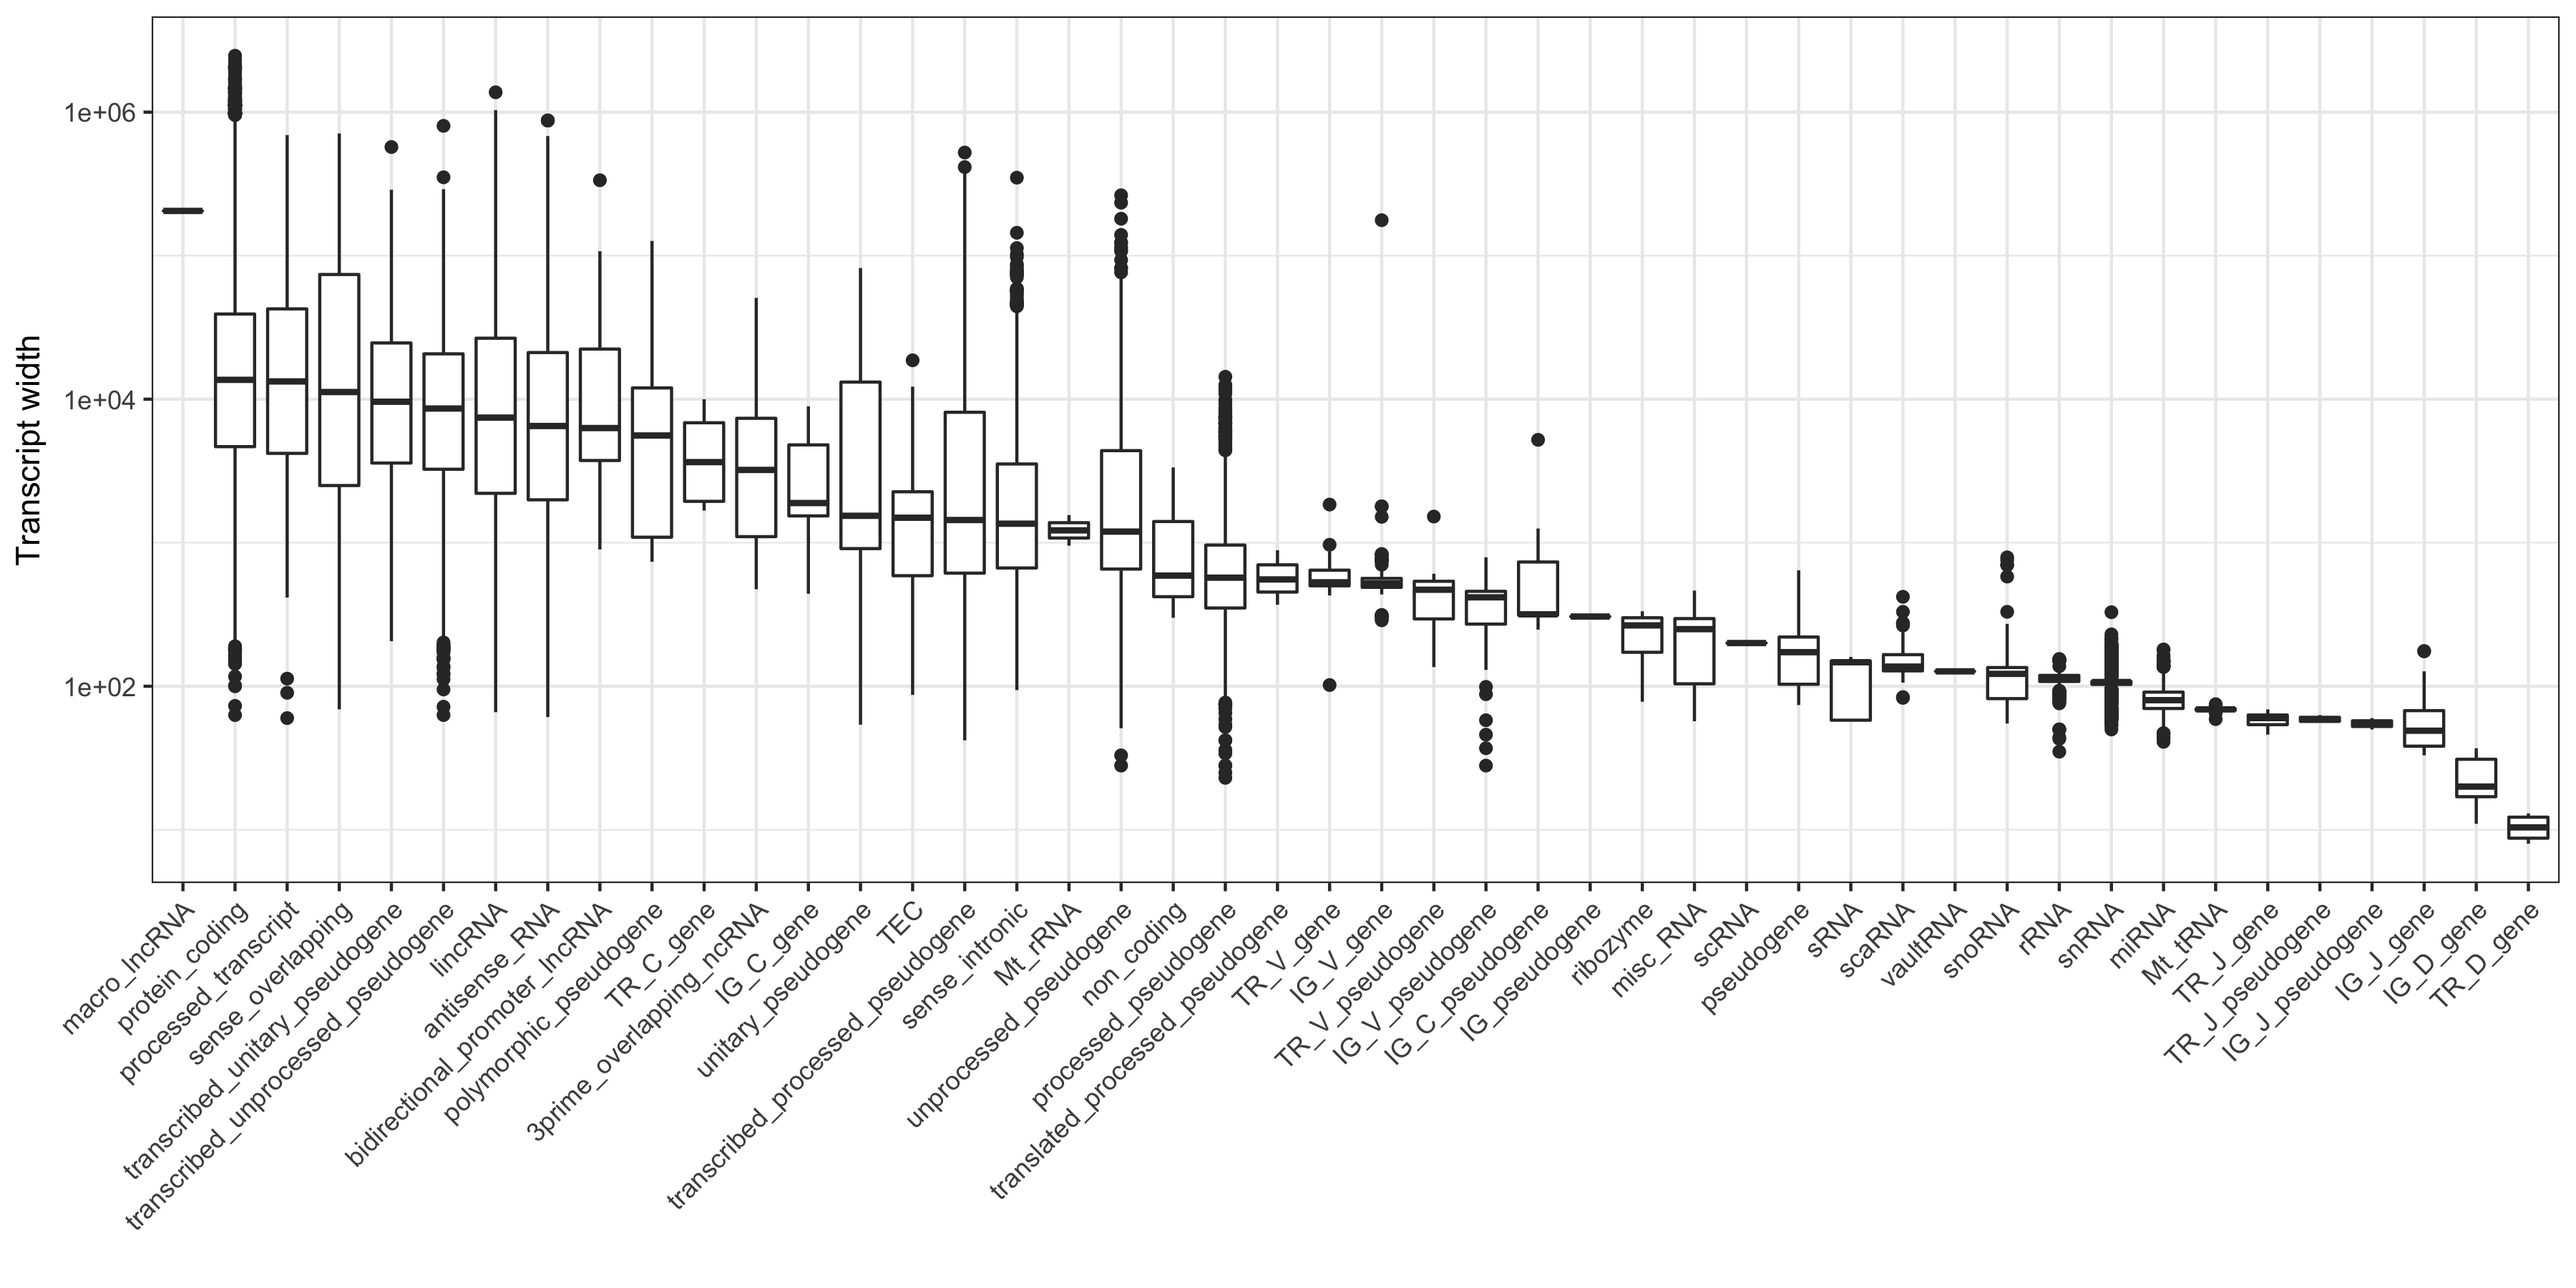
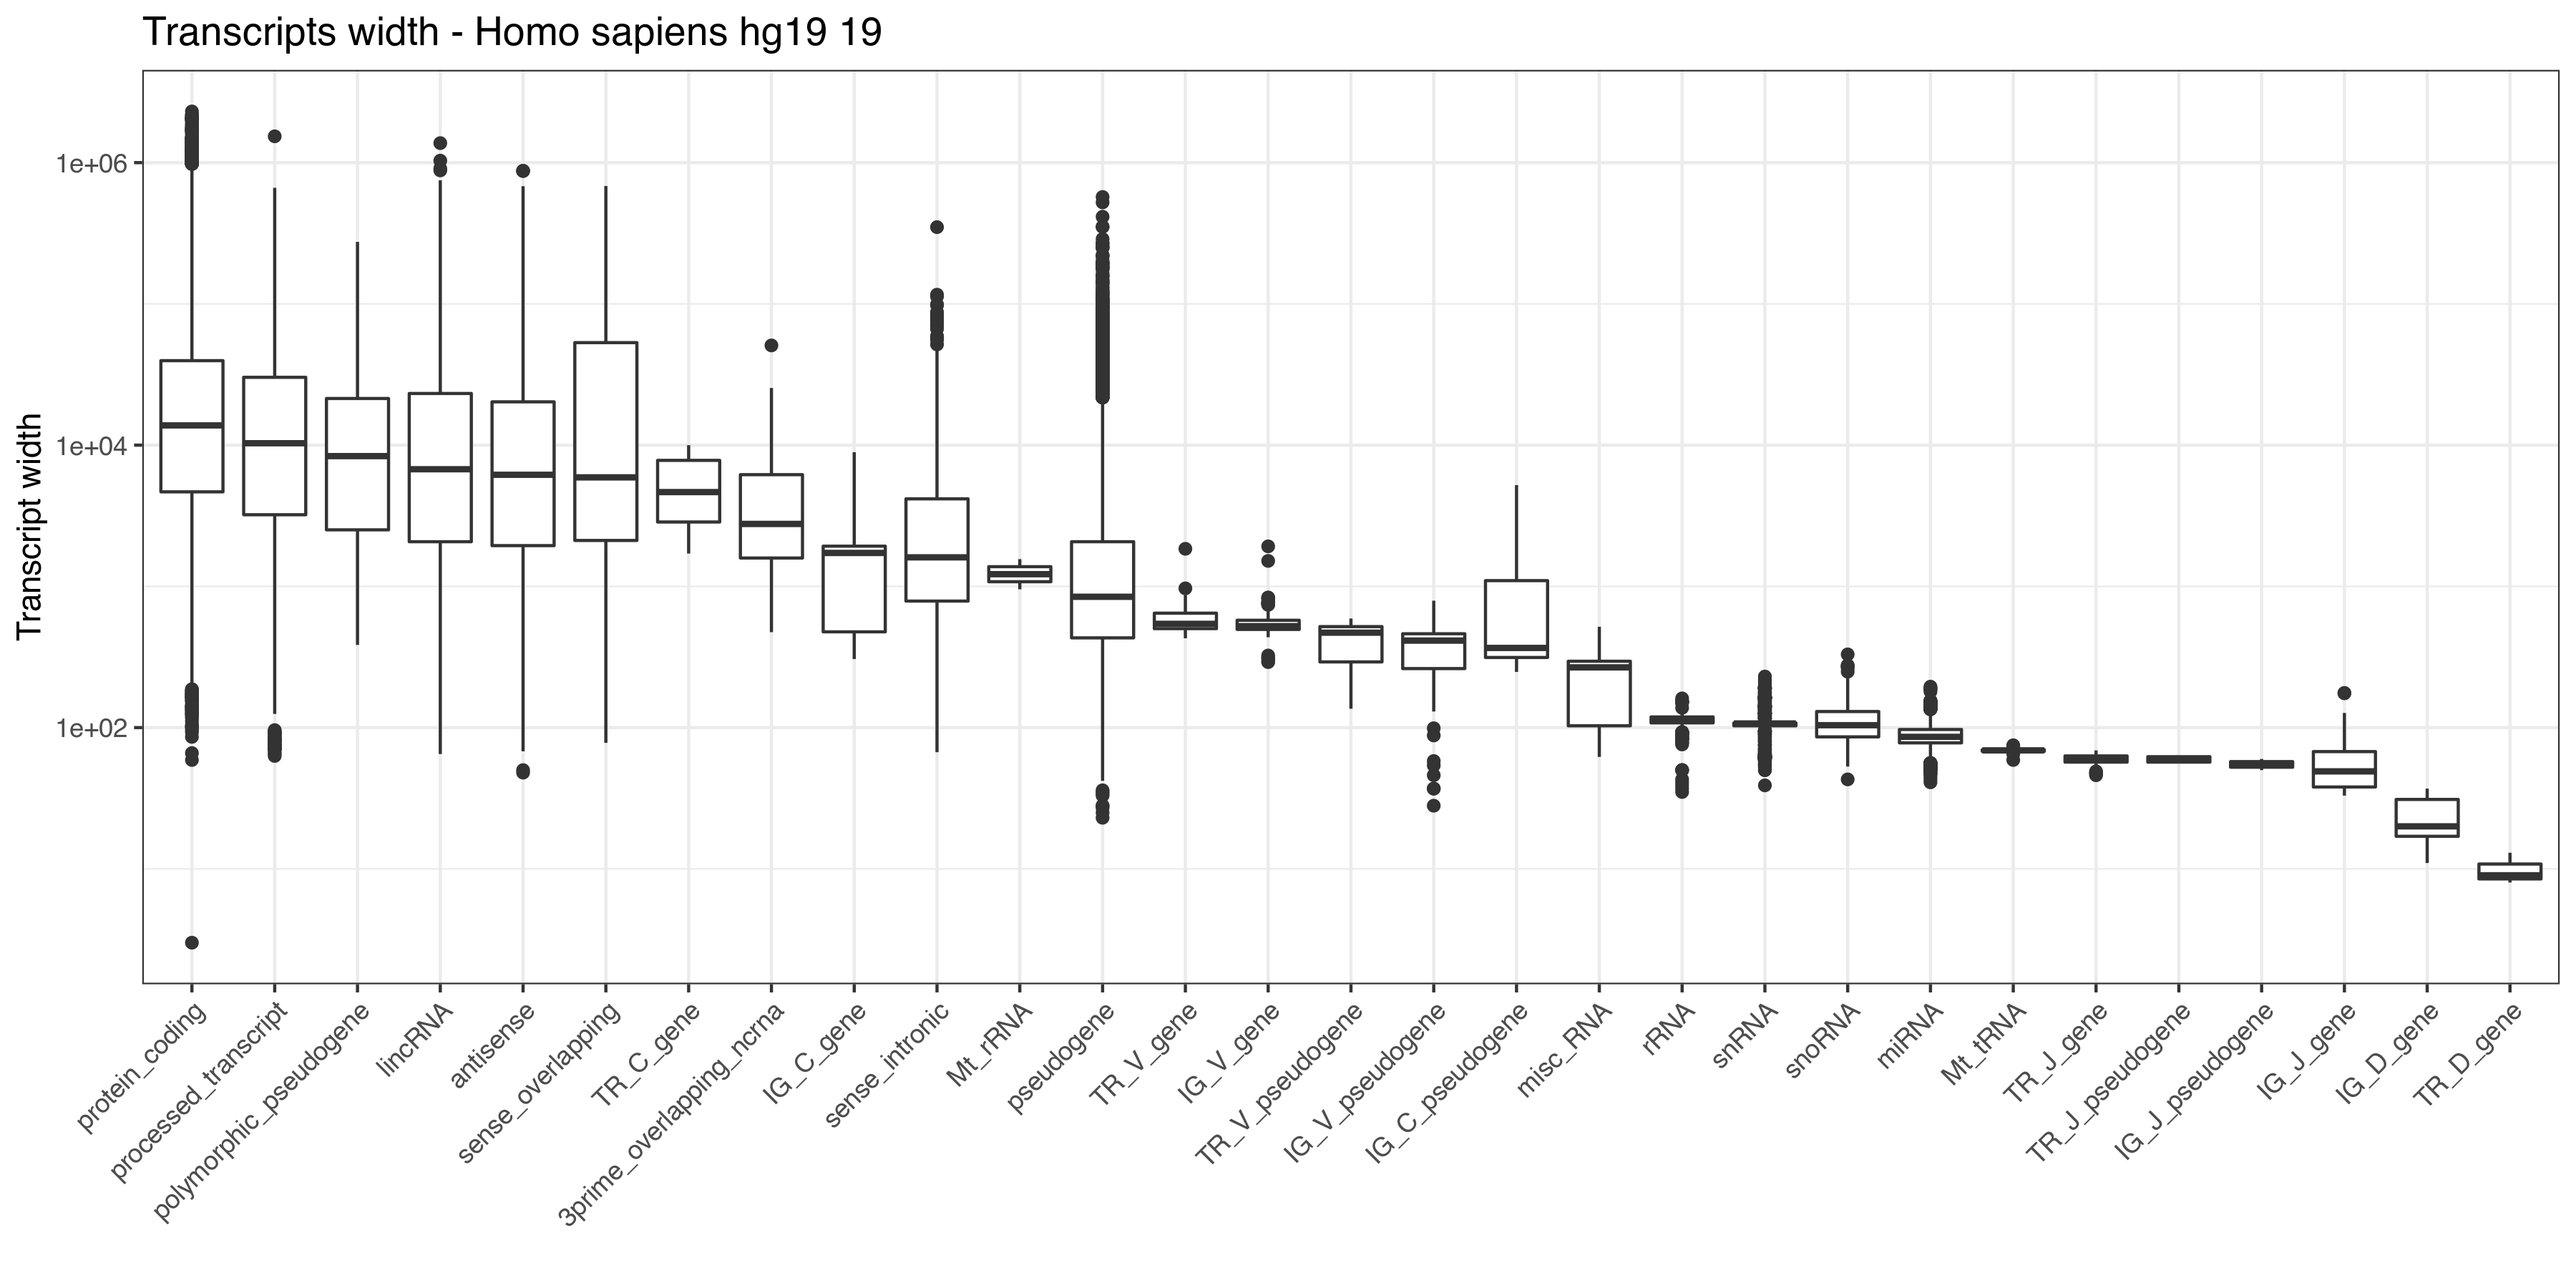
Fixes and changes

diff --git a/README.md b/README.md
@@ -1,6 +1,3 @@
-Gencode Annotation Processing
-================
-Federico Agostini
 
 ## To-Do
 
@@ -9,19 +6,19 @@ Federico Agostini
 
 ## Setup
 
-    ## R version 3.4.3 (2017-11-30)
+    ## R version 3.6.1 (2019-07-05)
 
-    ## Platform x86_64-apple-darwin15.6.0 (64-bit)
+    ## Platform x86_64-pc-linux-gnu (64-bit)
 
-    ## Running under OS X El Capitan 10.11.6
+    ## Running under Ubuntu 18.04.3 LTS
 
-    ## Last knitted on Mon Feb 26 14:26:36 2018
+    ## Last knitted on Fri Aug 23 11:43:55 2019
 
     ## Species:  Homo sapiens
 
-    ## Genome assembly: hg38
+    ## Genome assembly: hg19
 
-    ## Gencode version: 27
+    ## Gencode version: 19
 
 If any of the information above does not suit your needs, please review
 it in the ‘setup’ chunk and re-run the script.
@@ -51,28 +48,18 @@ script accordingly.
 
 ##### Table 1: Gene biotypes (top 20) per annotation level
 
-| Biotype                              |    1 |     2 |    3 |
-| :----------------------------------- | ---: | ----: | ---: |
-| protein\_coding                      | 5582 | 14215 |   21 |
-| processed\_pseudogene                | 8033 |  2199 |    1 |
-| lincRNA                              | 1099 |  6393 |    1 |
-| antisense\_RNA                       |  908 |  4609 |    0 |
-| unprocessed\_pseudogene              |  427 |  2210 |    0 |
-| misc\_RNA                            |    0 |     0 | 2212 |
-| snRNA                                |    0 |     1 | 1899 |
-| miRNA                                |    0 |     0 | 1879 |
-| TEC                                  |    1 |  1065 |    0 |
-| snoRNA                               |    0 |     8 |  935 |
-| sense\_intronic                      |   68 |   836 |    0 |
-| transcribed\_unprocessed\_pseudogene |  122 |   706 |    0 |
-| processed\_transcript                |   73 |   470 |    0 |
-| rRNA                                 |    0 |     0 |  543 |
-| transcribed\_processed\_pseudogene   |  322 |   140 |    0 |
-| sense\_overlapping                   |   17 |   172 |    0 |
-| IG\_V\_pseudogene                    |   35 |   153 |    0 |
-| IG\_V\_gene                          |    0 |   144 |    0 |
-| transcribed\_unitary\_pseudogene     |   20 |    91 |    0 |
-| TR\_V\_gene                          |    0 |   108 |    0 |
+| Biotype         |    1 |     2 |    3 |
+| :-------------- | ---: | ----: | ---: |
+| protein\_coding | 5165 | 14614 |  548 |
+| pseudogene      | 8823 |  4791 |  306 |
+| lincRNA         | 1010 |  6097 |    2 |
+| antisense       |  852 |  4421 |    0 |
+| miRNA           |    0 |     6 | 3043 |
+| misc\_RNA       |    0 |     2 | 2031 |
+| snRNA           |    0 |     5 | 1911 |
+| snoRNA          |    0 |     8 | 1449 |
+| sense\_intronic |   64 |   677 |    0 |
+| rRNA            |    0 |     0 |  526 |
 
 The *Comprehensive gene annotation* file is employed to extract
 information on genes, transcripts and exons, while the *Long non-coding
@@ -82,19 +69,35 @@ RNA gene annotation* is used to include additional non-coding RNAs
 
 By default, the analysis is restricted to standard chromosome only, and
 to level 1 (validated), 2 (manual annotation) and 3 (automated
-annotation) genes.
+annotation)
+    genes.
 
 ### Output
 
-  - **\<genome\>\_Gencode\<version\>\_annotations.RData**: It contains
-    most of the annotation objects, including genes, transcripts and
-    exons GRanges, genes and transcripts metadata, and longest pre- and
-    mature RNA
-    GRanges.
+  - **\<genome\>\_Gencode\<version\>\_genes\_annotations\_minimal.RData**:
+    It contains the basic annotation objects, including genes GRanges
+    and metadata information.
+
+  - **\<genome\>\_Gencode\<version\>\_txs\_annotations\_minimal.RData**:
+    It contains the basic annotation objects, including transcripts
+    GRanges and metadata information.
+
+  - **\<genome\>\_Gencode\<version\>\_genes\_annotations.RData**: In
+    addition to the minimal object, it contains exons GRanges and
+    separate protein-coding and non-coding genes and exons GRanges.
+
+  - **\<genome\>\_Gencode\<version\>\_txs\_annotations.RData**: In
+    addition to the minimal object, it contains exons GRanges and
+    separate protein-coding and non-coding longest transcripts and exons
+    GRanges. These are further divided into ‘pre’ (nascent) and ‘rna’
+    (mature)
+    transcripts.
+
   - **\<genome\>\_Gencode\<version\>\_annotations.pc.transcript.regions.rds**:
     It contains protein-coding genes GRanges sub-divided into 5’-UTR,
     exonic and 3’-UTR
     regions.
+
   - **\<genome\>\_Gencode\<version\>\_annotations.all.genes.transcript.regions.rds**:
     It contains all the annotated features, where each annotated
     nucleotide is assigned to a transcript biotype using the following
@@ -113,45 +116,41 @@ annotation) genes.
 
 | Region | Min. | 1st Qu. | Median |   Mean | 3rd Qu. |   Max. | Coverage |
 | :----- | ---: | ------: | -----: | -----: | ------: | -----: | -------: |
-| UTR5   |    1 |      97 |    206 |  296.0 |     374 |   7720 |  5598828 |
-| CDS    |    8 |     738 |   1233 | 1670.9 |    2013 | 107976 | 33463040 |
-| UTR3   |    1 |     389 |   1031 | 1725.1 |    2338 |  32870 | 32878861 |
+| UTR5   |    1 |      95 |    204 |  300.7 |     375 |  14960 |  5746629 |
+| CDS    |    8 |     687 |   1191 | 1619.2 |    1965 | 107976 | 33280413 |
+| UTR3   |    1 |     355 |    933 | 1517.0 |    2061 |  22552 | 29321630 |
 
-    ## [1] TRUE
+##### Figure 3: Gene density across chromosomes
 
-    ## [1] TRUE
-
-    ## [1] TRUE
-
-    ## [1] TRUE
+![](img/chr_density.png)
 
 ##### Table 3: Summary of all non-overlapping genomic regions (by gene)
 
 | Group           | Region            | Min. | 1st Qu. | Median |   Mean | 3rd Qu. |   Max. |   Coverage |
 | :-------------- | :---------------- | ---: | ------: | -----: | -----: | ------: | -----: | ---------: |
-| ncRNA           | exon              |    1 |      87 |    107 |  132.7 |   135.0 |   1559 |     983921 |
-| long\_ncRNA     | exon              |    1 |     105 |    186 |  439.5 |   399.0 | 205012 |   21876296 |
-| long\_ncRNA     | intron            |    1 |     679 |   2248 | 9357.2 |  8129.0 | 409122 |  351280063 |
-| protein\_coding | five\_prime\_UTR  |    1 |      68 |    128 |  197.4 |   241.0 |   6724 |    9038707 |
-| protein\_coding | intron            |    1 |     475 |   1488 | 5374.3 |  4186.0 | 767751 | 1183220603 |
-| protein\_coding | CDS               |    1 |      82 |    121 |  168.9 |   171.0 |  21693 |   35402109 |
-| protein\_coding | three\_prime\_UTR |    1 |     114 |    375 | 1028.4 |  1258.0 |  32870 |   37594131 |
-| protein\_coding | exon              |    1 |      86 |    178 |  330.6 |   357.0 |   9411 |   17154213 |
-| other           | exon              |    1 |     121 |    229 |  422.1 |   521.0 |  12496 |   12362613 |
-| other           | intron            |    1 |     321 |    894 | 2867.8 |  2477.0 | 311063 |   40788428 |
-| other           | CDS               |    5 |     112 |    160 |  323.4 |   304.8 |   1074 |      70504 |
-| other           | five\_prime\_UTR  |    2 |      30 |     84 |  135.7 |   144.0 |   1853 |       8819 |
-| other           | three\_prime\_UTR |   24 |      75 |    385 |  875.9 |  1394.0 |   3688 |      39417 |
-
-    ## [1] TRUE
+| ncRNA           | exon              |    1 |    87.0 |  104.0 |  125.2 |   121.0 |   1559 |    1110549 |
+| long\_ncRNA     | exon              |    1 |   103.0 |  178.0 |  383.0 |   362.0 |  91667 |   17231198 |
+| long\_ncRNA     | intron            |    1 |   647.0 | 2147.0 | 9225.7 |  7837.0 | 409122 |  320169286 |
+| protein\_coding | CDS               |    1 |    82.0 |  121.0 |  168.6 |   171.0 |  21693 |   35239515 |
+| protein\_coding | five\_prime\_UTR  |    1 |    67.0 |  128.0 |  198.8 |   240.0 |  14960 |    9098634 |
+| protein\_coding | three\_prime\_UTR |    1 |   113.0 |  367.0 |  935.6 |  1169.0 |  22552 |   33261185 |
+| protein\_coding | intron            |    1 |   475.2 | 1494.0 | 5387.0 |  4203.0 | 657297 | 1179276593 |
+| protein\_coding | exon              |    1 |    86.0 |  176.0 |  321.4 |   350.0 |  24177 |   16342578 |
+| protein\_coding | UTR               |    4 |    71.2 |  111.5 |  353.7 |   161.8 |  15046 |      72864 |
+| other           | exon              |    1 |   120.0 |  238.0 |  426.0 |   541.0 |  12496 |   11727581 |
+| other           | intron            |    1 |   309.0 |  829.0 | 2666.0 |  2273.0 | 311063 |   34537801 |
+| other           | CDS               |    4 |    96.0 |  136.0 |  191.8 |   181.0 |   1859 |      73467 |
+| other           | three\_prime\_UTR |   10 |   121.5 |  314.0 |  604.8 |   762.0 |   3328 |      18750 |
+| other           | five\_prime\_UTR  |    2 |    35.0 |   89.0 |   98.0 |   123.0 |    352 |       3235 |
 
 ##### Table 4: Summary of all non-overlapping genomic regions (by transcript)
 
-| Region | Min. | 1st Qu. | Median |   Mean | 3rd Qu. |   Max. |   Coverage |
-| :----- | ---: | ------: | -----: | -----: | ------: | -----: | ---------: |
-| ncRNA  |    2 |      91 |    141 |  297.8 |   266.0 | 205012 |   40928476 |
-| CDS    |    1 |      80 |    121 |  174.4 |   172.0 |  21693 |   28517368 |
-| UTR3   |    1 |     181 |    549 | 1201.9 |  1541.2 |  32870 |   33513951 |
-| UTR5   |    1 |      57 |    117 |  183.0 |   227.0 |   5545 |    7701216 |
-| intron |    1 |     448 |   1418 | 5226.2 |  3982.0 | 767751 | 1164023803 |
-| other  |    1 |     487 |   1436 | 7650.7 |  5771.0 | 602638 |  435119605 |
+| Region      | Min. | 1st Qu. | Median |   Mean | 3rd Qu. |   Max. |   Coverage |
+| :---------- | ---: | ------: | -----: | -----: | ------: | -----: | ---------: |
+| ncRNA       |   35 |      87 |    104 |  125.4 |   121.0 |   2728 |    1147867 |
+| CDS         |    1 |      84 |    123 |  170.7 |   172.0 |  21693 |   35101038 |
+| UTR3        |    1 |     188 |    541 | 1116.8 |  1460.5 |  22552 |   31846862 |
+| UTR5        |    1 |      67 |    126 |  196.9 |   238.0 |  14960 |    8998336 |
+| long\_ncRNA |    1 |      91 |    160 |  325.2 |   317.0 |  91667 |   24356623 |
+| intron      |    1 |     449 |   1425 | 5247.9 |  3995.0 | 728468 | 1162213235 |
+| other       |    1 |     472 |   1350 | 7480.1 |  5488.5 | 602638 |  393624369 |
